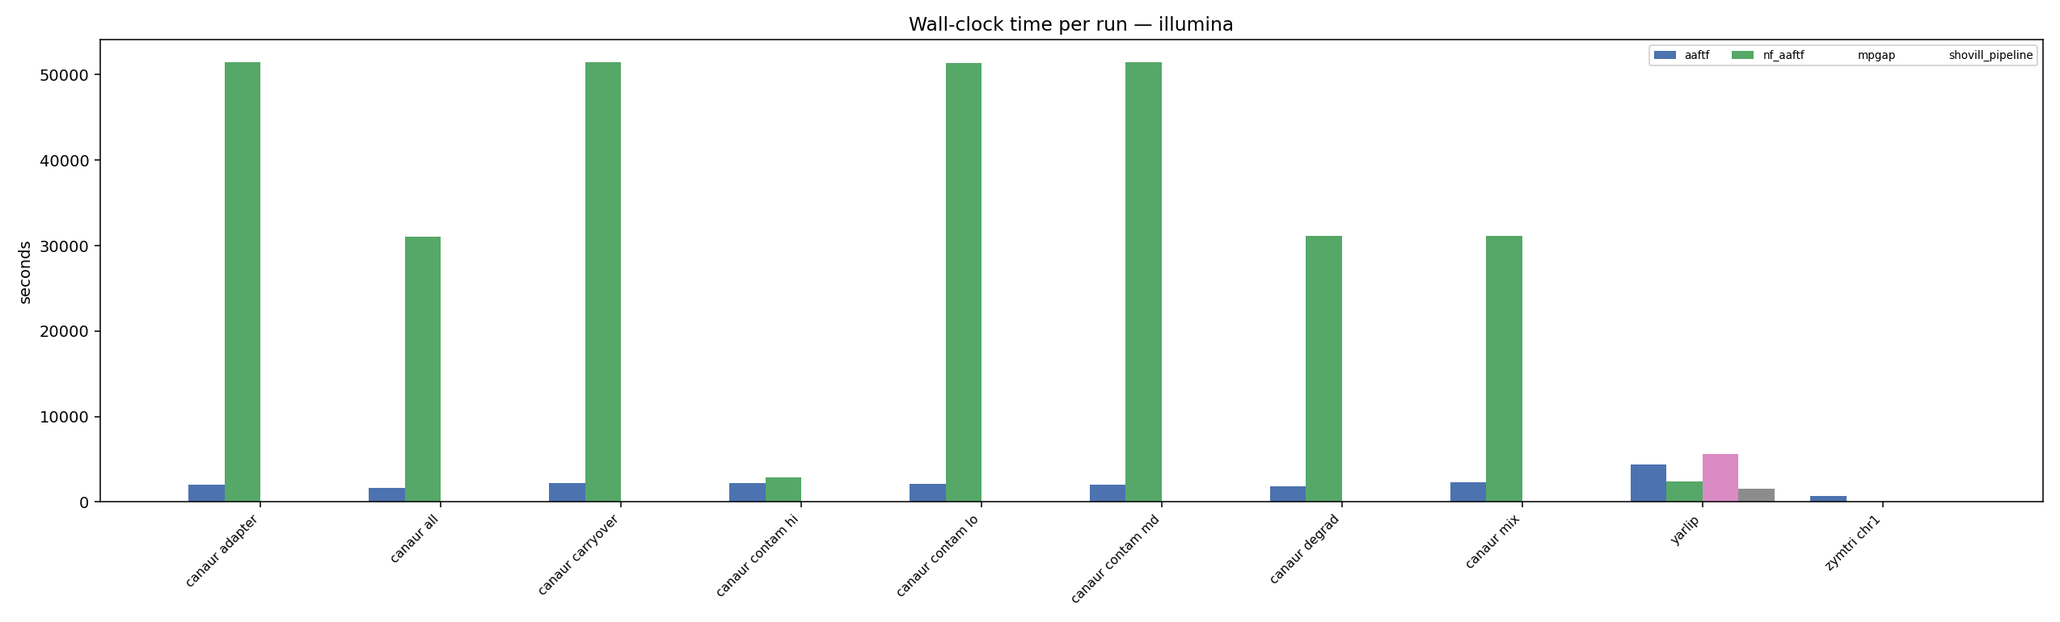
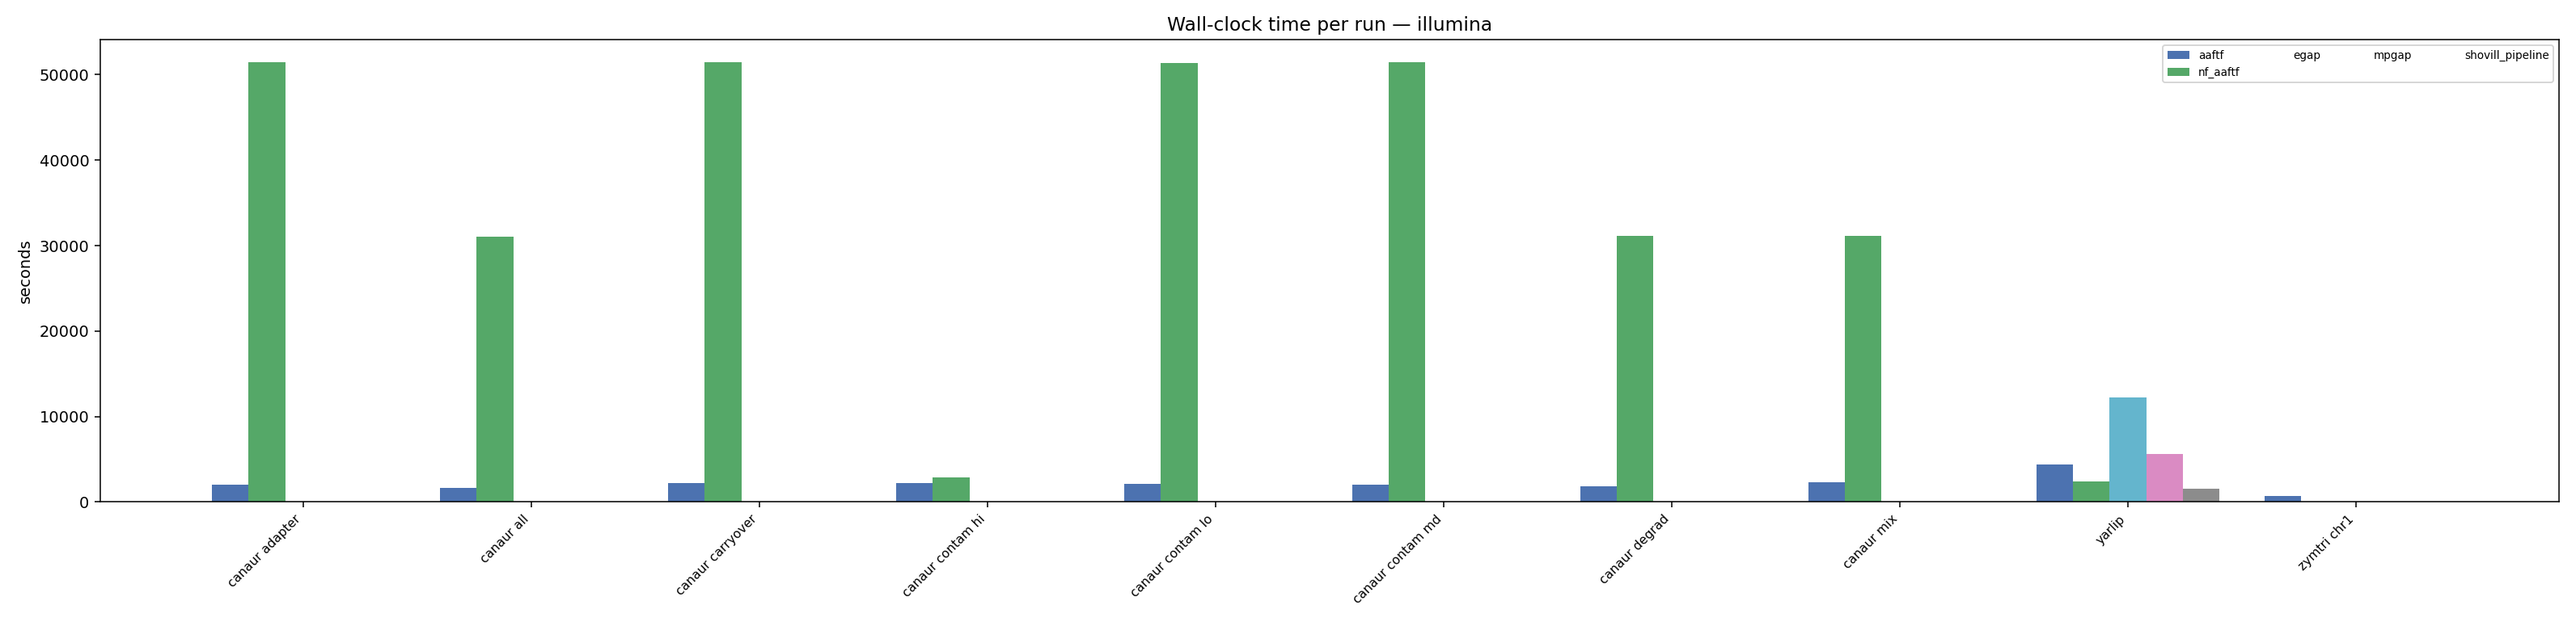
Add egap results to report; adapter now completes end-to-end
Confirms the --writable-tmpfs fix (previous commit) resolves the EROFS
crash: egap/yarlip_sim_001 now succeeds -- 83 contigs, 20.67 Mb, N50=556kb,
99.43% truth coverage, 6/6 truth seqs hit. All 8 planned adapters
(aaftf, nf_aaftf, spades_pipeline, hifiasm_pipeline, flye_pipeline, egap,
mpgap, shovill_pipeline) now have at least one validated real end-to-end
run in the report.

diff --git a/scripts/build_eval_report.py b/scripts/build_eval_report.py
@@ -52,6 +52,9 @@ RUNS = [
     ("shovill_pipeline", "yarlip_sim_001",
      str(REPO_ROOT / "results/adhoc/shovill_pipeline/yarlip_sim_001"),
      REPO_ROOT / "datasets/sim/yarlip_sim_001/refs/yarlip_sim_001.truth.fa"),
+    ("egap", "yarlip_sim_001",
+     str(REPO_ROOT / "results/adhoc/egap/yarlip_sim_001"),
+     REPO_ROOT / "datasets/sim/yarlip_sim_001/refs/yarlip_sim_001.truth.fa"),
 ]
 # canaur/zymtri direct-aaftf batch: same truth genome (canaur) for all 8,
 # zymtri its own. Read from the batch summary + per-dataset manifests.

diff --git a/docs/reports/2026-08-19-benchmark-summary.md b/docs/reports/2026-08-19-benchmark-summary.md
@@ -54,6 +54,7 @@ Timing, assembly quality, and truth-genome accuracy for every pipeline validated
 | aaftf | canaur_sim_mix_001 | 2301 | 73 | 12,009,866 | 636,519 | 99.57 | 7/7 |
 | nf_aaftf | canaur_sim_mix_001 | 31147 | 39 | 12,016,674 | 596,610 | 99.46 | 7/7 |
 | aaftf | yarlip_sim_001 | 4356 | 149 | 20,233,494 | 284,329 | 99.11 | 6/6 |
+| egap | yarlip_sim_001 | 12245 | 83 | 20,669,273 | 556,416 | 99.43 | 6/6 |
 | mpgap | yarlip_sim_001 | 5570 | 410 | 20,287,178 | 411,068 | 99.38 | 6/6 |
 | nf_aaftf | yarlip_sim_001 | 2408 | 126 | 20,240,007 | 277,510 | 99.01 | 6/6 |
 | shovill_pipeline | yarlip_sim_001 | 1509 | 704 | 20,257,849 | 49,020 | 98.93 | 6/6 |
